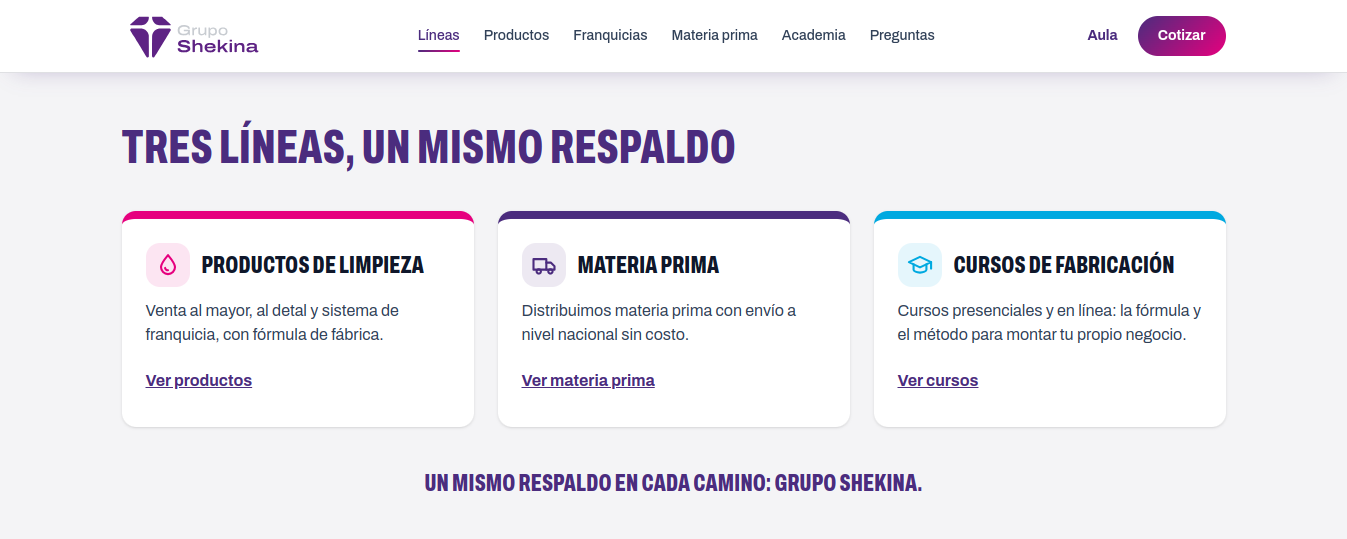
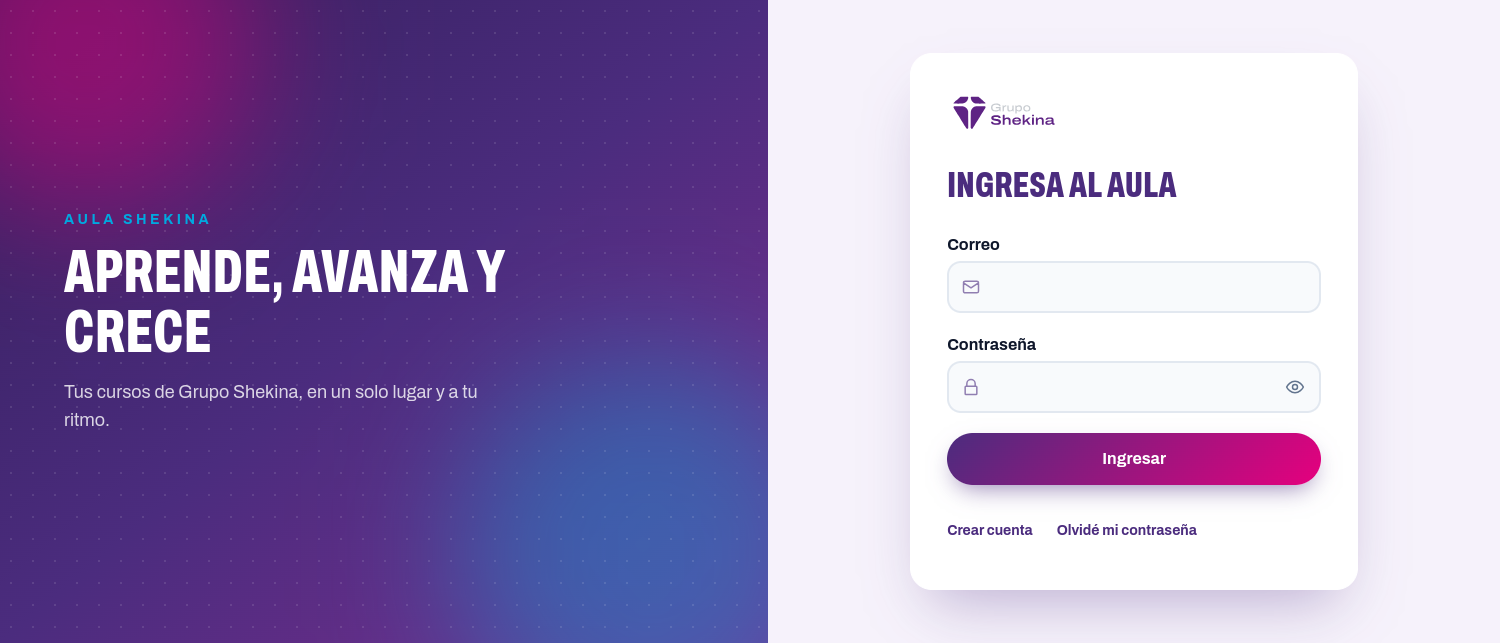
Feature Grupo Shekina first on home and portfolio, use aula login as preview

diff --git a/src/i18n/translations.js b/src/i18n/translations.js
@@ -43,6 +43,12 @@ export const translations = {
     },
     proyectosDestacados: [
       {
+        nombre: 'Grupo Shekina',
+        resumen: 'Sitio de productos de limpieza + aula virtual con cursos y pagos',
+        url: 'https://gruposhekina.com/',
+        comingSoon: false,
+      },
+      {
         nombre: 'Olax',
         resumen: 'Rediseño web + panel de administración',
         url: 'https://olaxlatamoficial.com/',
@@ -353,6 +359,14 @@ export const translations = {
       subtitulo: 'Nuestros trabajos más recientes, en producción y generando ventas ahora mismo.',
       proyectos: [
         {
+          nombre: 'Grupo Shekina',
+          tipo: 'Sitio web + aula virtual',
+          descripcion:
+            'Sitio para un fabricante de productos de limpieza en Venezuela. Incluye catálogo por línea, solicitud de cotización, un aula virtual con cursos en video y pagos con comprobante, y un panel de administración para gestionar cursos y aprobar pagos.',
+          stack: ['Next.js', 'Tailwind', 'Supabase', 'Resend', 'TypeScript'],
+          url: 'https://gruposhekina.com/',
+        },
+        {
           nombre: 'Urban Sport',
           tipo: 'Tienda online (demo)',
           descripcion:
@@ -367,14 +381,6 @@ export const translations = {
             'Sitio para un mayorista de tecnología en Miami. Incluye catálogo de productos filtrable por categoría, listado de distribuidores autorizados por región y un panel privado, con autenticación, para que el equipo administre el contenido sin depender de nosotros.',
           stack: ['React', 'Vite', 'Tailwind', 'Supabase', 'EmailJS'],
           url: 'https://olaxlatamoficial.com/',
-        },
-        {
-          nombre: 'Grupo Shekina',
-          tipo: 'Sitio web + aula virtual',
-          descripcion:
-            'Sitio para un fabricante de productos de limpieza en Venezuela. Incluye catálogo por línea, solicitud de cotización, un aula virtual con cursos en video y pagos con comprobante, y un panel de administración para gestionar cursos y aprobar pagos.',
-          stack: ['Next.js', 'Tailwind', 'Supabase', 'Resend', 'TypeScript'],
-          url: 'https://gruposhekina.com/',
         },
         {
           nombre: 'ElectroNova',
@@ -514,6 +520,12 @@ export const translations = {
       subtitulo: 'Explore some of the websites and online stores we\'ve designed from start to finish.',
     },
     proyectosDestacados: [
+      {
+        nombre: 'Grupo Shekina',
+        resumen: 'Cleaning-products site + online classroom with courses and payments',
+        url: 'https://gruposhekina.com/',
+        comingSoon: false,
+      },
       {
         nombre: 'Olax',
         resumen: 'Website redesign + admin panel',
@@ -824,6 +836,14 @@ export const translations = {
       subtitulo: 'Our most recent work, in production and generating sales right now.',
       proyectos: [
         {
+          nombre: 'Grupo Shekina',
+          tipo: 'Website + online classroom',
+          descripcion:
+            'Site for a cleaning-products manufacturer in Venezuela. Includes a catalog by product line, quote requests, an online classroom with video courses and payment by receipt, and an admin panel to manage courses and approve payments.',
+          stack: ['Next.js', 'Tailwind', 'Supabase', 'Resend', 'TypeScript'],
+          url: 'https://gruposhekina.com/',
+        },
+        {
           nombre: 'Urban Sport',
           tipo: 'Online store (demo)',
           descripcion:
@@ -838,14 +858,6 @@ export const translations = {
             'Site for a technology wholesaler in Miami. Includes a product catalog filterable by category, a directory of authorized distributors by region, and a private, authenticated panel so the team can manage content without depending on us.',
           stack: ['React', 'Vite', 'Tailwind', 'Supabase', 'EmailJS'],
           url: 'https://olaxlatamoficial.com/',
-        },
-        {
-          nombre: 'Grupo Shekina',
-          tipo: 'Website + online classroom',
-          descripcion:
-            'Site for a cleaning-products manufacturer in Venezuela. Includes a catalog by product line, quote requests, an online classroom with video courses and payment by receipt, and an admin panel to manage courses and approve payments.',
-          stack: ['Next.js', 'Tailwind', 'Supabase', 'Resend', 'TypeScript'],
-          url: 'https://gruposhekina.com/',
         },
         {
           nombre: 'ElectroNova',

diff --git a/src/pages/Inicio.jsx b/src/pages/Inicio.jsx
@@ -1,5 +1,6 @@
 import { Link } from 'react-router-dom'
 import olaxPreview from '../assets/olax-preview.png'
+import shekinaPreview from '../assets/shekina-preview.png'
 import veraPreview from '../assets/vera-preview.png'
 import casaclinicaPreview from '../assets/casaclinica-preview.png'
 import totallooksPreview from '../assets/totallooks-preview.png'
@@ -10,6 +11,7 @@ import StarField from '../components/StarField'
 import PricingCards from '../components/PricingCards'
 
 const PROJECT_PREVIEWS = {
+  'Grupo Shekina': shekinaPreview,
   Olax: olaxPreview,
   Vera: veraPreview,
   'Casa Clínica': casaclinicaPreview,
